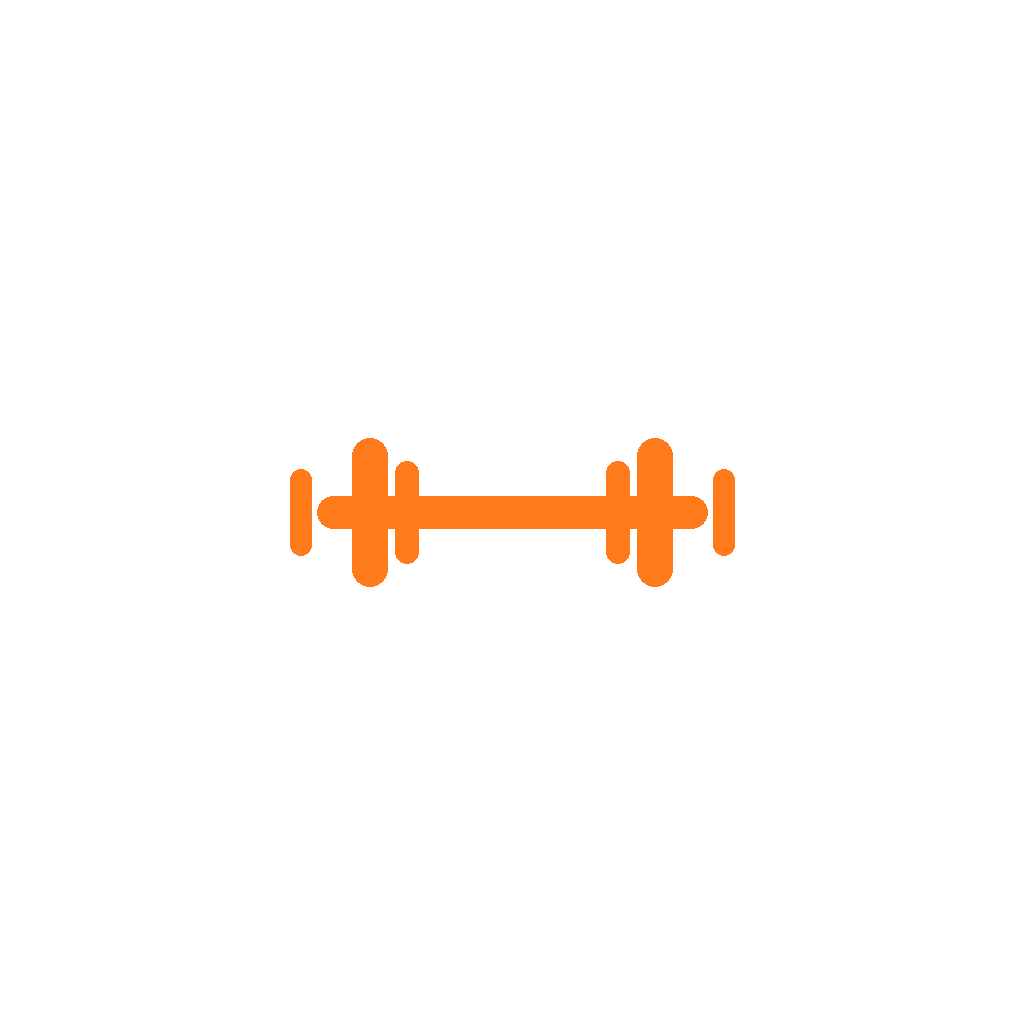
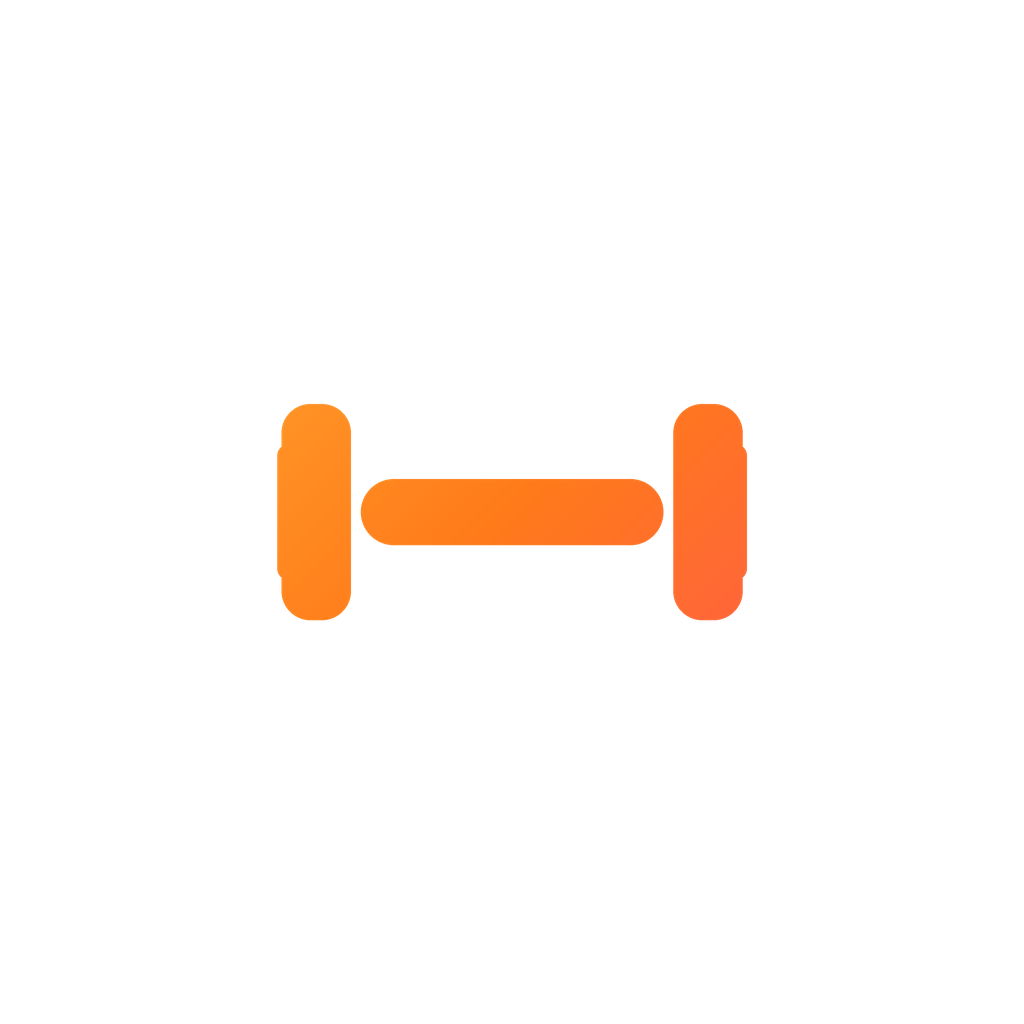
fix(upload): corrige l'échec RLS + refonte icône & écran profil
- lib/avatar.ts : l'extension de fichier était devinée en découpant
  l'URI sur "." — sur Android, les URIs de galerie sont souvent des
  content:// sans point (ex. content://media/external/images/media/123),
  ce qui injectait l'URI entière comme "extension" et cassait le chemin
  de l'objet stocké. Devine maintenant l'extension depuis le type MIME
  (fiable) avec repli sur l'URI. Remplace aussi la lecture par fetch()
  (peu fiable sur les URIs locaux Android) par expo-file-system + base64
  → ArrayBuffer, méthode officiellement recommandée par Supabase pour
  React Native.
- assets/icon.png, adaptive-icon.png, splash.png : icône redessinée
  (haltère plus audacieux, blanc sur dégradé de marque, meilleur
  contraste/lisibilité en petite taille). L'icône adaptative Android
  avait un fond BLANC opaque qui écrasait le backgroundColor sombre
  configuré dans app.json — repasse en fond transparent avec le motif
  dans la zone de sécurité (~46% de la largeur, sous les 66% recommandés).
- app/(tabs)/profile.tsx : ajoute un titre d'écran (cohérent avec les
  autres onglets), regroupe les actions de compte dans une carte avec
  icônes au lieu de liens texte isolés, distingue visuellement l'action
  destructive (suppression de compte, couleur danger).
- ProfileForm.tsx : avatar avec anneau dégradé + badge caméra (cohérent
  avec l'écran de profil public member/[id].tsx, qui avait déjà ce
  traitement), accessibilité sur l'avatar et les chips.
[…]

Changed region(s): [[0.25, 0.375, 0.75, 0.625]]

diff --git a/app/(tabs)/profile.tsx b/app/(tabs)/profile.tsx
@@ -1,7 +1,7 @@
+import { Ionicons } from '@expo/vector-icons';
 import { useRouter } from 'expo-router';
-import { ActivityIndicator, Alert, Text, View } from 'react-native';
+import { ActivityIndicator, Alert, Pressable, Text, View } from 'react-native';
 
-import { Button } from '@/components/Button';
 import { Screen } from '@/components/Screen';
 import { ProfileForm } from '@/features/profile/ProfileForm';
 import { useMyProfile } from '@/features/profile/useMyProfile';
@@ -9,6 +9,33 @@ import { supabase } from '@/lib/supabase';
 
 // Identifiant de version visible (permet de confirmer le build installé).
 const BUILD_LABEL = 'Gym Partner · v0.1.1 (build 23)';
+
+function ActionRow({
+  icon,
+  label,
+  danger,
+  onPress,
+}: {
+  icon: keyof typeof Ionicons.glyphMap;
+  label: string;
+  danger?: boolean;
+  onPress: () => void;
+}) {
+  return (
+    <Pressable
+      onPress={onPress}
+      accessibilityRole="button"
+      accessibilityLabel={label}
+      className="flex-row items-center gap-3 px-4 py-3.5"
+    >
+      <Ionicons name={icon} size={18} color={danger ? '#FF4D6D' : '#B5A192'} />
+      <Text className={`flex-1 font-semibold ${danger ? 'text-danger' : 'text-white'}`}>
+        {label}
+      </Text>
+      <Ionicons name="chevron-forward" size={16} color="#B5A192" />
+    </Pressable>
+  );
+}
 
 export default function ProfileScreen() {
   const router = useRouter();
@@ -46,28 +73,34 @@ export default function ProfileScreen() {
 
   return (
     <Screen>
+      <Text className="py-3 font-display text-3xl text-white">Ton profil</Text>
       <ProfileForm
         initial={profile}
         submitLabel="Enregistrer"
         onSubmitted={() => Alert.alert('Enregistré', 'Profil mis à jour.')}
       />
-      <View className="gap-3 pb-6">
-        <Text
-          className="text-center text-muted"
-          onPress={() => router.push('/privacy')}
-          accessibilityRole="link"
-        >
-          Politique de confidentialité
-        </Text>
-        <Button
-          label="Se déconnecter"
-          variant="ghost"
-          onPress={() => supabase.auth.signOut()}
-        />
-        <Text className="text-center text-muted" onPress={onDeleteAccount}>
-          Supprimer mon compte
-        </Text>
-        <Text className="mt-1 text-center text-xs text-muted/60">{BUILD_LABEL}</Text>
+      <View className="gap-4 pb-6">
+        <View className="overflow-hidden rounded-4xl border border-border bg-surface">
+          <ActionRow
+            icon="shield-checkmark-outline"
+            label="Politique de confidentialité"
+            onPress={() => router.push('/privacy')}
+          />
+          <View className="h-px bg-border" />
+          <ActionRow
+            icon="log-out-outline"
+            label="Se déconnecter"
+            onPress={() => supabase.auth.signOut()}
+          />
+          <View className="h-px bg-border" />
+          <ActionRow
+            icon="trash-outline"
+            label="Supprimer mon compte"
+            danger
+            onPress={onDeleteAccount}
+          />
+        </View>
+        <Text className="text-center text-xs text-muted/60">{BUILD_LABEL}</Text>
       </View>
     </Screen>
   );

diff --git a/src/features/profile/ProfileForm.tsx b/src/features/profile/ProfileForm.tsx
@@ -1,10 +1,13 @@
+import { Ionicons } from '@expo/vector-icons';
 import { Image } from 'expo-image';
+import { LinearGradient } from 'expo-linear-gradient';
 import { useState } from 'react';
-import { Alert, Pressable, ScrollView, Text, TextInput, View } from 'react-native';
+import { ActivityIndicator, Alert, Pressable, ScrollView, Text, TextInput, View } from 'react-native';
 
 import { Button } from '@/components/Button';
 import { useAuth } from '@/features/auth/AuthProvider';
 import { pickAndUploadAvatar } from '@/lib/avatar';
+import { gradients } from '@/theme/colors';
 import type { FitnessLevel, Profile } from '@/types/database';
 
 import { DAYS, GOALS, LEVELS, PERIODS } from './constants';
@@ -24,6 +27,9 @@ function Chip({
   return (
     <Pressable
       onPress={onPress}
+      accessibilityRole="button"
+      accessibilityLabel={label}
+      accessibilityState={{ selected: active }}
       className={`rounded-full px-4 py-2 ${active ? 'bg-primary' : 'bg-surface'}`}
     >
       <Text className={active ? 'font-semibold text-white' : 'text-muted'}>{label}</Text>
@@ -108,14 +114,42 @@ export function ProfileForm({
   return (
     <ScrollView contentContainerClassName="gap-5 py-4">
       <View className="items-center gap-2">
-        <Pressable onPress={onPickAvatar}>
-          <Image
-            source={avatarUrl ?? undefined}
-            className="h-24 w-24 rounded-full bg-surface"
-          />
+        <Pressable
+          onPress={onPickAvatar}
+          disabled={uploading}
+          accessibilityRole="button"
+          accessibilityLabel="Changer la photo de profil"
+        >
+          <LinearGradient
+            colors={gradients.brand}
+            start={{ x: 0, y: 0 }}
+            end={{ x: 1, y: 1 }}
+            style={{ padding: 4, borderRadius: 56 }}
+          >
+            <Image
+              source={avatarUrl ?? undefined}
+              style={{
+                height: 104,
+                width: 104,
+                borderRadius: 52,
+                borderWidth: 4,
+                borderColor: '#160E0B',
+                backgroundColor: '#231811',
+              }}
+            />
+          </LinearGradient>
+          <View
+            className="absolute bottom-0 right-0 h-9 w-9 items-center justify-center rounded-full border-2 border-background bg-primary"
+          >
+            {uploading ? (
+              <ActivityIndicator size="small" color="#160E0B" />
+            ) : (
+              <Ionicons name="camera" size={16} color="#160E0B" />
+            )}
+          </View>
         </Pressable>
-        <Text className="text-primary" onPress={onPickAvatar}>
-          {uploading ? 'Envoi...' : 'Choisir une photo'}
+        <Text className="text-sm text-muted">
+          {uploading ? 'Envoi...' : 'Changer la photo'}
         </Text>
       </View>
 

diff --git a/src/lib/avatar.ts b/src/lib/avatar.ts
@@ -1,6 +1,20 @@
+import { decode } from 'base64-arraybuffer';
+import * as FileSystem from 'expo-file-system';
 import * as ImagePicker from 'expo-image-picker';
 
 import { supabase } from './supabase';
+
+// Devine l'extension depuis le type MIME (fiable) plutôt que depuis l'URI :
+// sur Android, les URIs de galerie sont souvent des content:// sans point
+// (ex. content://media/external/images/media/12345), donc découper sur "."
+// renvoyait l'URI entière comme "extension" et cassait le chemin de l'objet.
+function guessExtension(uri: string, mimeType?: string | null): string {
+  const fromMime = mimeType?.split('/').pop()?.toLowerCase();
+  if (fromMime && /^[a-z0-9]{2,5}$/.test(fromMime)) return fromMime;
+  const fromUri = uri.split('.').pop()?.toLowerCase();
+  if (fromUri && /^[a-z0-9]{2,5}$/.test(fromUri)) return fromUri;
+  return 'jpg';
+}
 
 // Ouvre la galerie, téléverse l'image dans le bucket `avatars` sous le dossier
 // de l'utilisateur, et renvoie l'URL publique. Renvoie null si annulé.
@@ -14,14 +28,19 @@ export async function pickAndUploadAvatar(userId: string): Promise<string | null
   if (result.canceled || !result.assets.length) return null;
 
   const asset = result.assets[0];
-  const ext = asset.uri.split('.').pop()?.toLowerCase() ?? 'jpg';
+  const ext = guessExtension(asset.uri, asset.mimeType);
   const path = `${userId}/avatar.${ext}`;
 
-  const arrayBuffer = await fetch(asset.uri).then((r) => r.arrayBuffer());
+  // Lecture en base64 via expo-file-system (méthode recommandée par Supabase
+  // pour React Native) : fetch() sur un URI local content:// est peu fiable
+  // sur Android selon la version et le fournisseur de galerie.
+  const base64 = await FileSystem.readAsStringAsync(asset.uri, {
+    encoding: FileSystem.EncodingType.Base64,
+  });
 
   const { error } = await supabase.storage
     .from('avatars')
-    .upload(path, arrayBuffer, {
+    .upload(path, decode(base64), {
       contentType: asset.mimeType ?? `image/${ext}`,
       upsert: true,
     });
